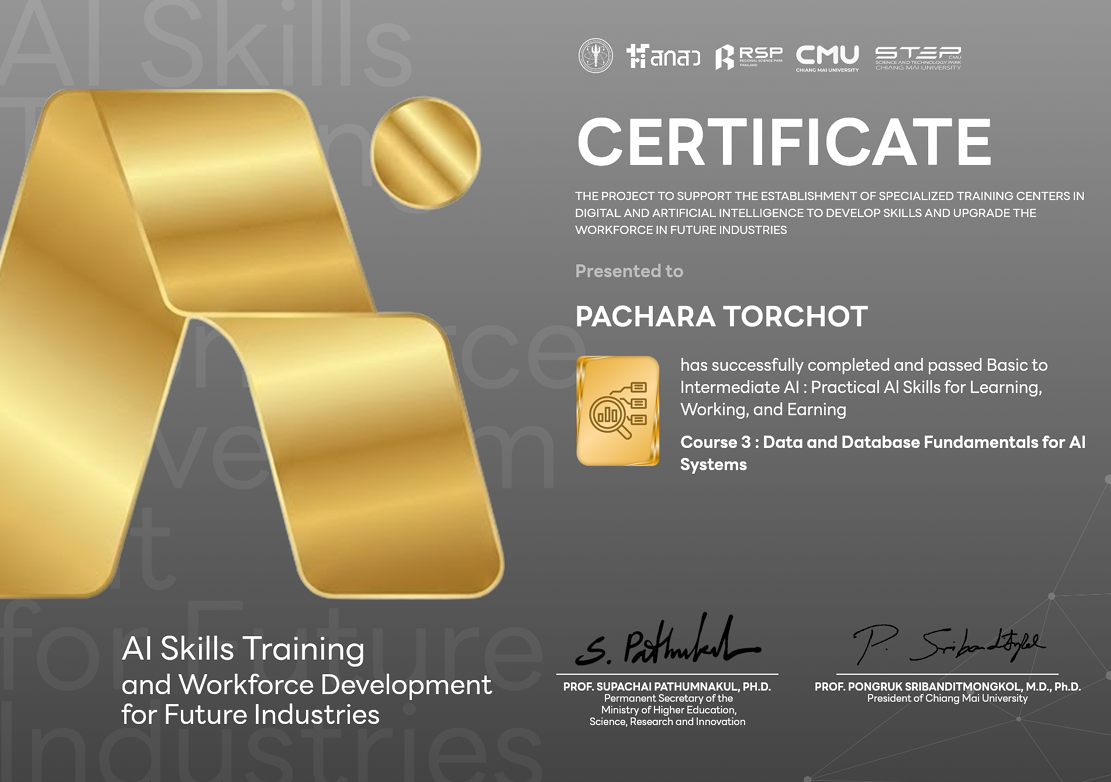
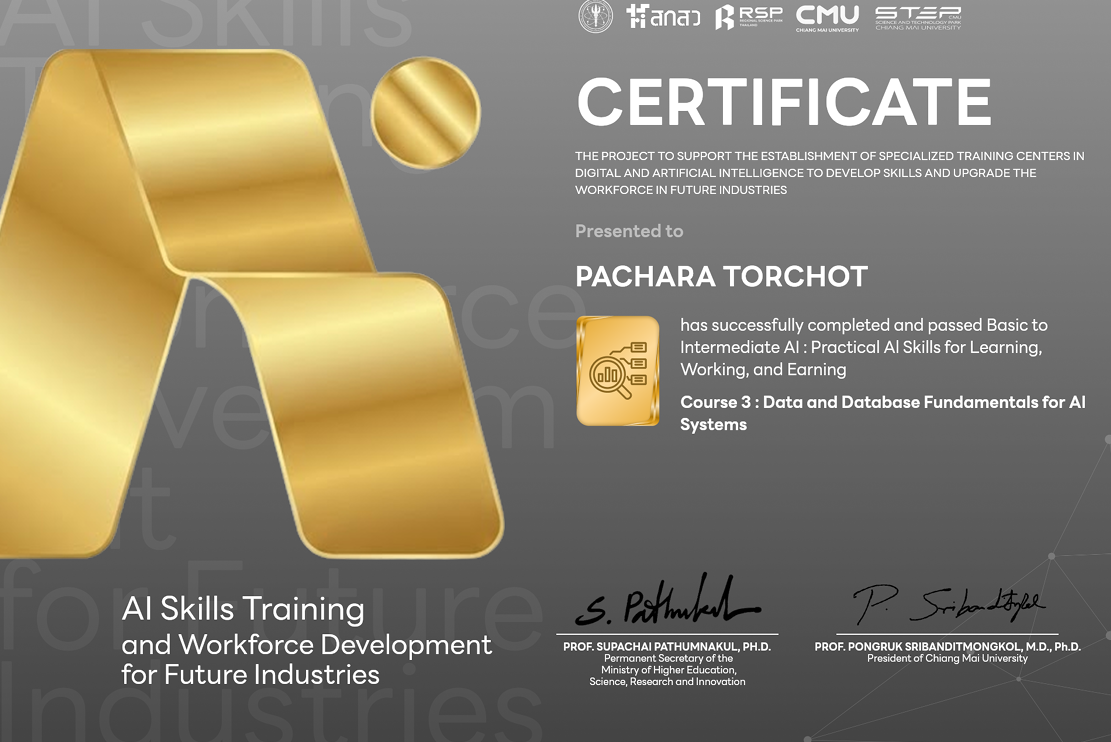
Refine certifications: trim images, uniform cards, bottom pager
- Trim baked-in margins from certificate PNGs so they fill the frame
- Use a 3:2 frame (matches most certs) with object-top; badge stays contained
- Equal-height cards via reserved two-line title space
- Move the pager (arrows + dots) below the carousel, centered
- Tighten section spacing so the pager stays in view when jumped to

diff --git a/src/components/Certifications.tsx b/src/components/Certifications.tsx
@@ -47,7 +47,7 @@ export default function Certifications() {
   if (certifications.length === 0) return null
 
   return (
-    <section id="certifications" className="section">
+    <section id="certifications" className="py-16 md:py-20">
       <div className="container-x">
         <motion.div
           initial={{ opacity: 0, y: 12 }}
@@ -63,37 +63,14 @@ export default function Certifications() {
               Click any card to view the certificate.
             </p>
           </div>
-          {pageCount > 1 && (
-            <div className="flex items-center gap-3 font-mono text-xs text-ink-500">
-              <button
-                type="button"
-                onClick={() => goTo(page - 1)}
-                disabled={page === 0}
-                aria-label="Previous page"
-                className="grid h-8 w-8 place-items-center rounded-md border border-ink-700 text-ink-200 transition-colors hover:border-ink-500 hover:text-ink-50 disabled:cursor-not-allowed disabled:opacity-30"
-              >
-                ←
-              </button>
-              <span className="tabular-nums">
-                {page + 1} / {pageCount}
-              </span>
-              <button
-                type="button"
-                onClick={() => goTo(page + 1)}
-                disabled={page === pageCount - 1}
-                aria-label="Next page"
-                className="grid h-8 w-8 place-items-center rounded-md border border-ink-700 text-ink-200 transition-colors hover:border-ink-500 hover:text-ink-50 disabled:cursor-not-allowed disabled:opacity-30"
-              >
-                →
-              </button>
-            </div>
-          )}
         </motion.div>
 
+        {/* py-2 keeps card borders off the clip edge — overflow-x:auto forces
+            overflow-y to auto, which otherwise shaves the bottom row's border */}
         <div
           ref={scrollerRef}
           onScroll={onScroll}
-          className="no-scrollbar mt-12 flex snap-x snap-mandatory overflow-x-auto scroll-smooth"
+          className="no-scrollbar mt-8 flex snap-x snap-mandatory overflow-x-auto scroll-smooth py-2"
         >
           {pages.map((group, p) => (
             <div
@@ -107,13 +84,15 @@ export default function Certifications() {
                     key={c.name}
                     type="button"
                     onClick={() => setOpenIdx(globalIdx)}
-                    className="card group block text-left"
+                    className="card group flex h-full flex-col text-left"
                   >
-                    <div className="card-image">
+                    {/* 3:2 (not the shared card-image 4:3): shorter cards keep the
+                        pager on-screen, and most certificates are ~3:2 so they fill
+                        the frame with almost no crop */}
+                    <div className="relative aspect-[3/2] shrink-0 overflow-hidden bg-ink-900">
                       {c.image ? (
                         c.contain ? (
-                          // Square badge: fill behind it with a blurred copy so the
-                          // white shield sits on colour, not a hard letterbox
+                          // Square badge: sits on a blurred fill of itself
                           <>
                             <img
                               src={c.image}
@@ -125,15 +104,19 @@ export default function Certifications() {
                               src={c.image}
                               alt={c.name}
                               loading="lazy"
-                              className="absolute inset-0 h-full w-full object-contain p-3 transition-transform duration-500 group-hover:scale-105"
+                              className="absolute inset-0 h-full w-full object-contain p-4 transition-transform duration-500 group-hover:scale-105"
                             />
                           </>
                         ) : (
+                          // Certificates are trimmed to the document edge, so cover
+                          // fills the frame edge-to-edge. object-top keeps the header
+                          // (logo, title, name) — only signatures at the very bottom
+                          // fall outside the crop, and the lightbox shows the full image.
                           <img
                             src={c.image}
                             alt={c.name}
                             loading="lazy"
-                            className="absolute inset-0 h-full w-full object-cover transition-transform duration-500 group-hover:scale-105"
+                            className="absolute inset-0 h-full w-full object-cover object-top transition-transform duration-500 group-hover:scale-105"
                           />
                         )
                       ) : (
@@ -149,8 +132,10 @@ export default function Certifications() {
                         <ExpandIcon className="h-3 w-3" /> View
                       </span>
                     </div>
+                    {/* min-h reserves two lines for every name so all cards are
+                        the exact same height regardless of title length */}
                     <div className="p-4">
-                      <h3 className="line-clamp-2 text-sm font-medium leading-snug text-ink-100 group-hover:text-ink-50">
+                      <h3 className="line-clamp-2 min-h-[2.4rem] text-sm font-medium leading-snug text-ink-100 group-hover:text-ink-50">
                         {c.name}
                       </h3>
                       <p className="mt-1.5 text-xs text-ink-500">
@@ -167,19 +152,41 @@ export default function Certifications() {
         </div>
 
         {pageCount > 1 && (
-          <div className="mt-6 flex items-center justify-center gap-2">
-            {pages.map((_, p) => (
-              <button
-                key={p}
-                type="button"
-                onClick={() => goTo(p)}
-                aria-label={`Go to page ${p + 1}`}
-                aria-current={p === page}
-                className={`h-1.5 rounded-full transition-all ${
-                  p === page ? 'w-6 bg-ink-300' : 'w-1.5 bg-ink-700 hover:bg-ink-600'
-                }`}
-              />
-            ))}
+          <div className="mt-6 flex items-center justify-center gap-4 font-mono text-xs text-ink-500">
+            <button
+              type="button"
+              onClick={() => goTo(page - 1)}
+              disabled={page === 0}
+              aria-label="Previous page"
+              className="grid h-8 w-8 place-items-center rounded-md border border-ink-700 text-ink-200 transition-colors hover:border-ink-500 hover:text-ink-50 disabled:cursor-not-allowed disabled:opacity-30"
+            >
+              ←
+            </button>
+
+            <div className="flex items-center gap-2">
+              {pages.map((_, p) => (
+                <button
+                  key={p}
+                  type="button"
+                  onClick={() => goTo(p)}
+                  aria-label={`Go to page ${p + 1}`}
+                  aria-current={p === page}
+                  className={`h-1.5 rounded-full transition-all ${
+                    p === page ? 'w-6 bg-ink-300' : 'w-1.5 bg-ink-700 hover:bg-ink-600'
+                  }`}
+                />
+              ))}
+            </div>
+
+            <button
+              type="button"
+              onClick={() => goTo(page + 1)}
+              disabled={page === pageCount - 1}
+              aria-label="Next page"
+              className="grid h-8 w-8 place-items-center rounded-md border border-ink-700 text-ink-200 transition-colors hover:border-ink-500 hover:text-ink-50 disabled:cursor-not-allowed disabled:opacity-30"
+            >
+              →
+            </button>
           </div>
         )}
       </div>
